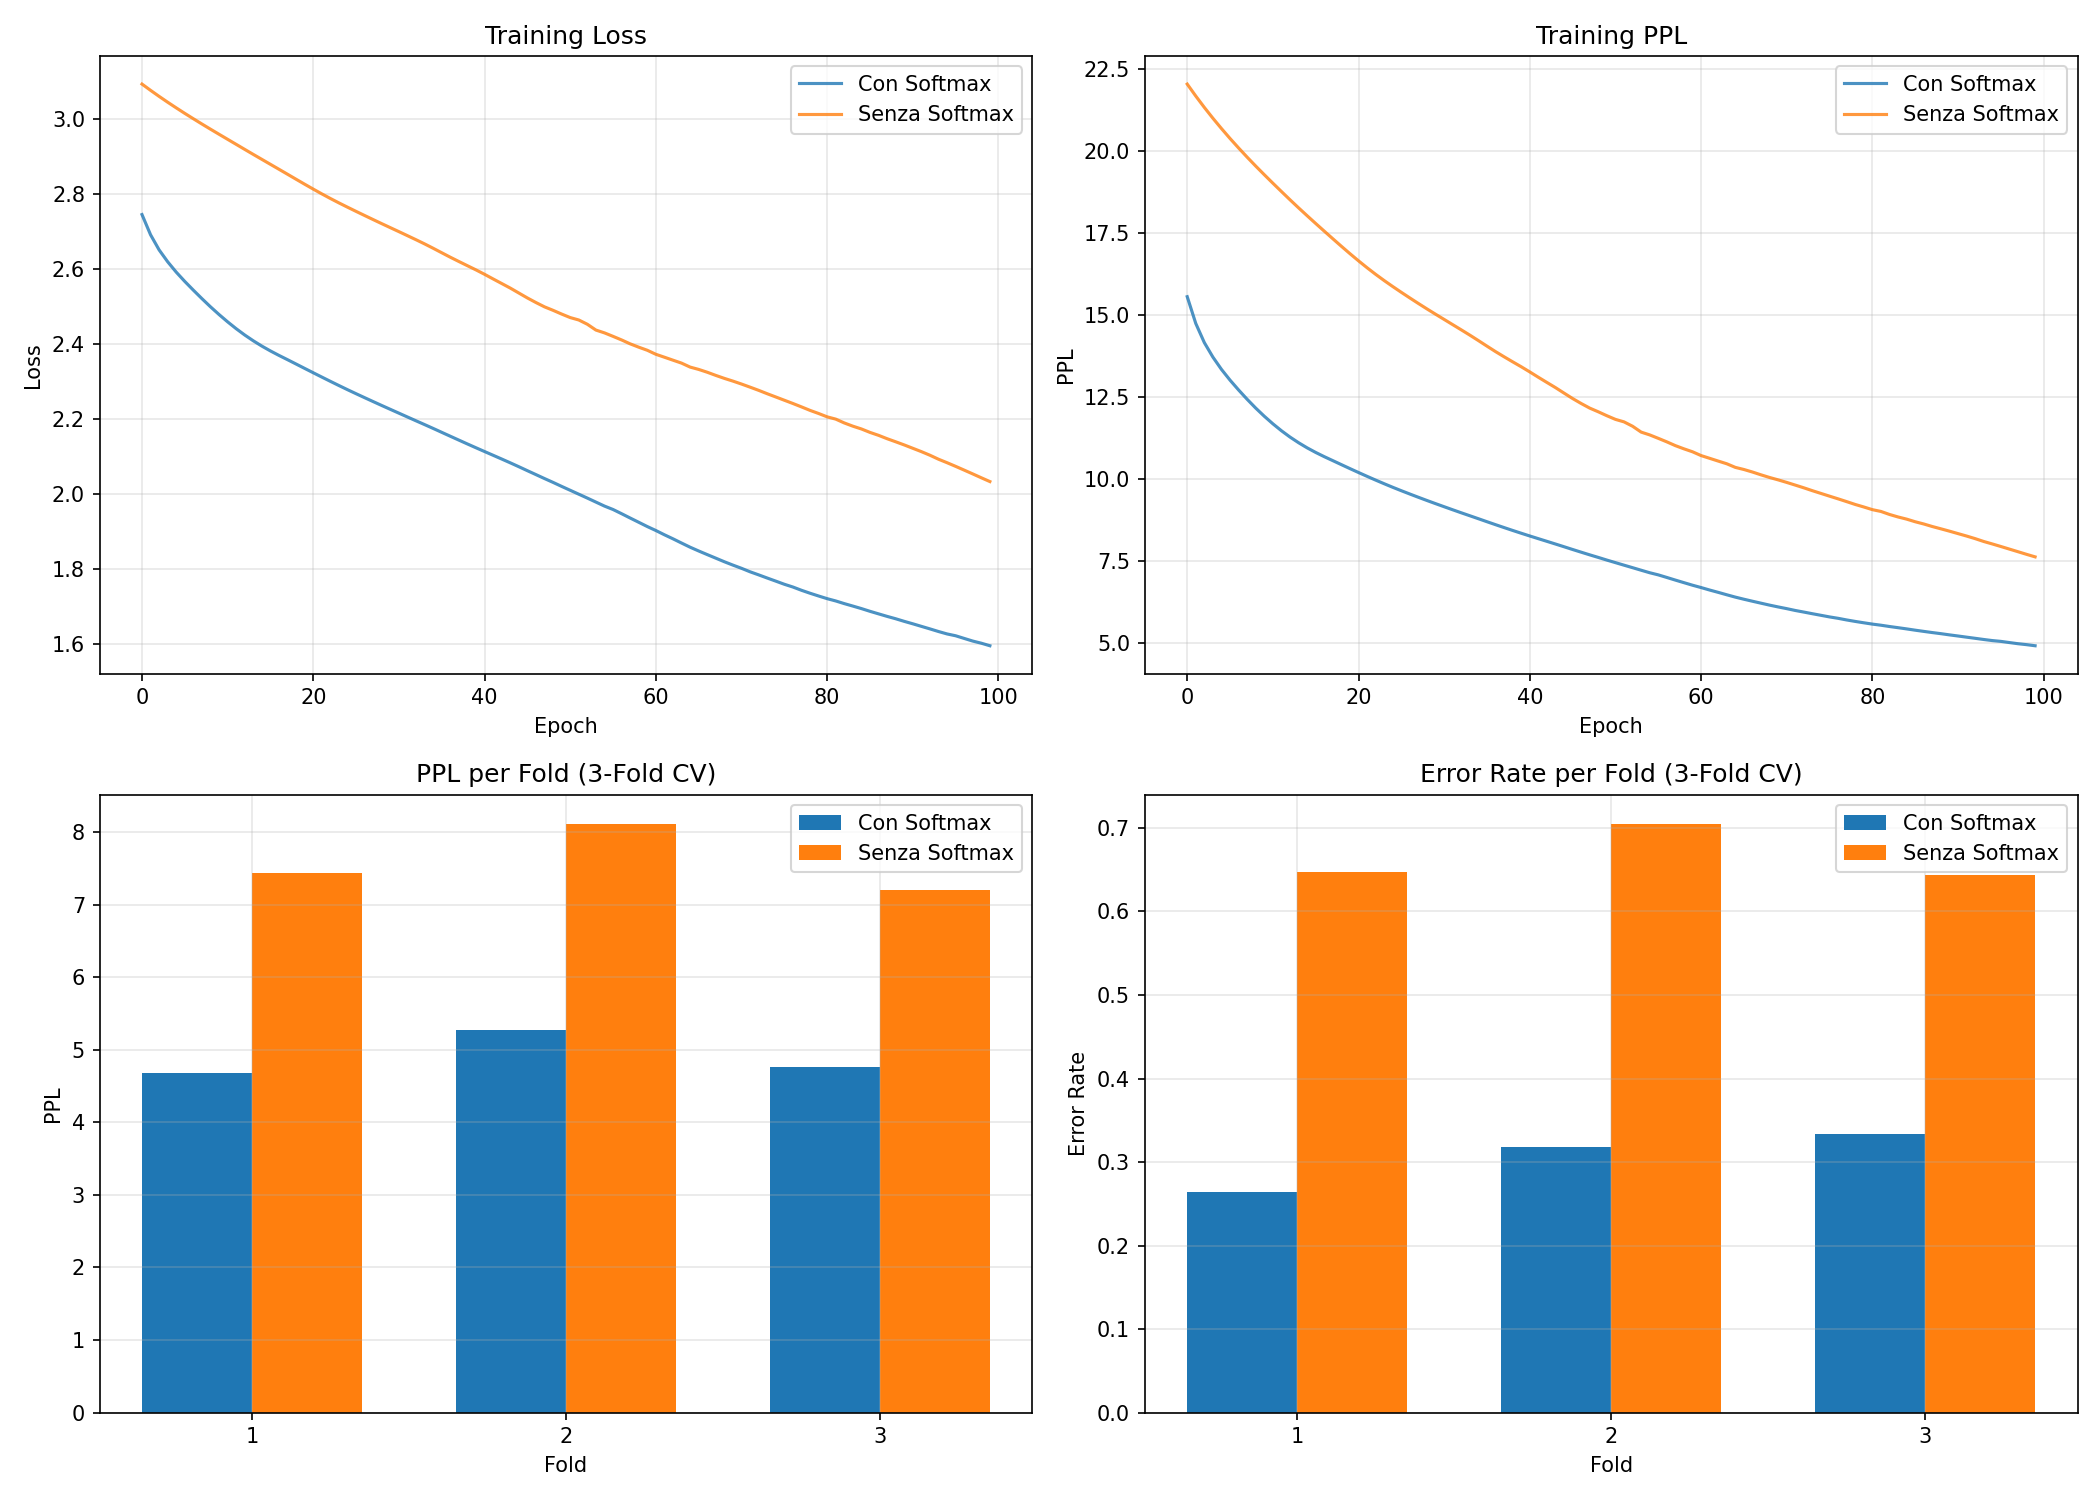
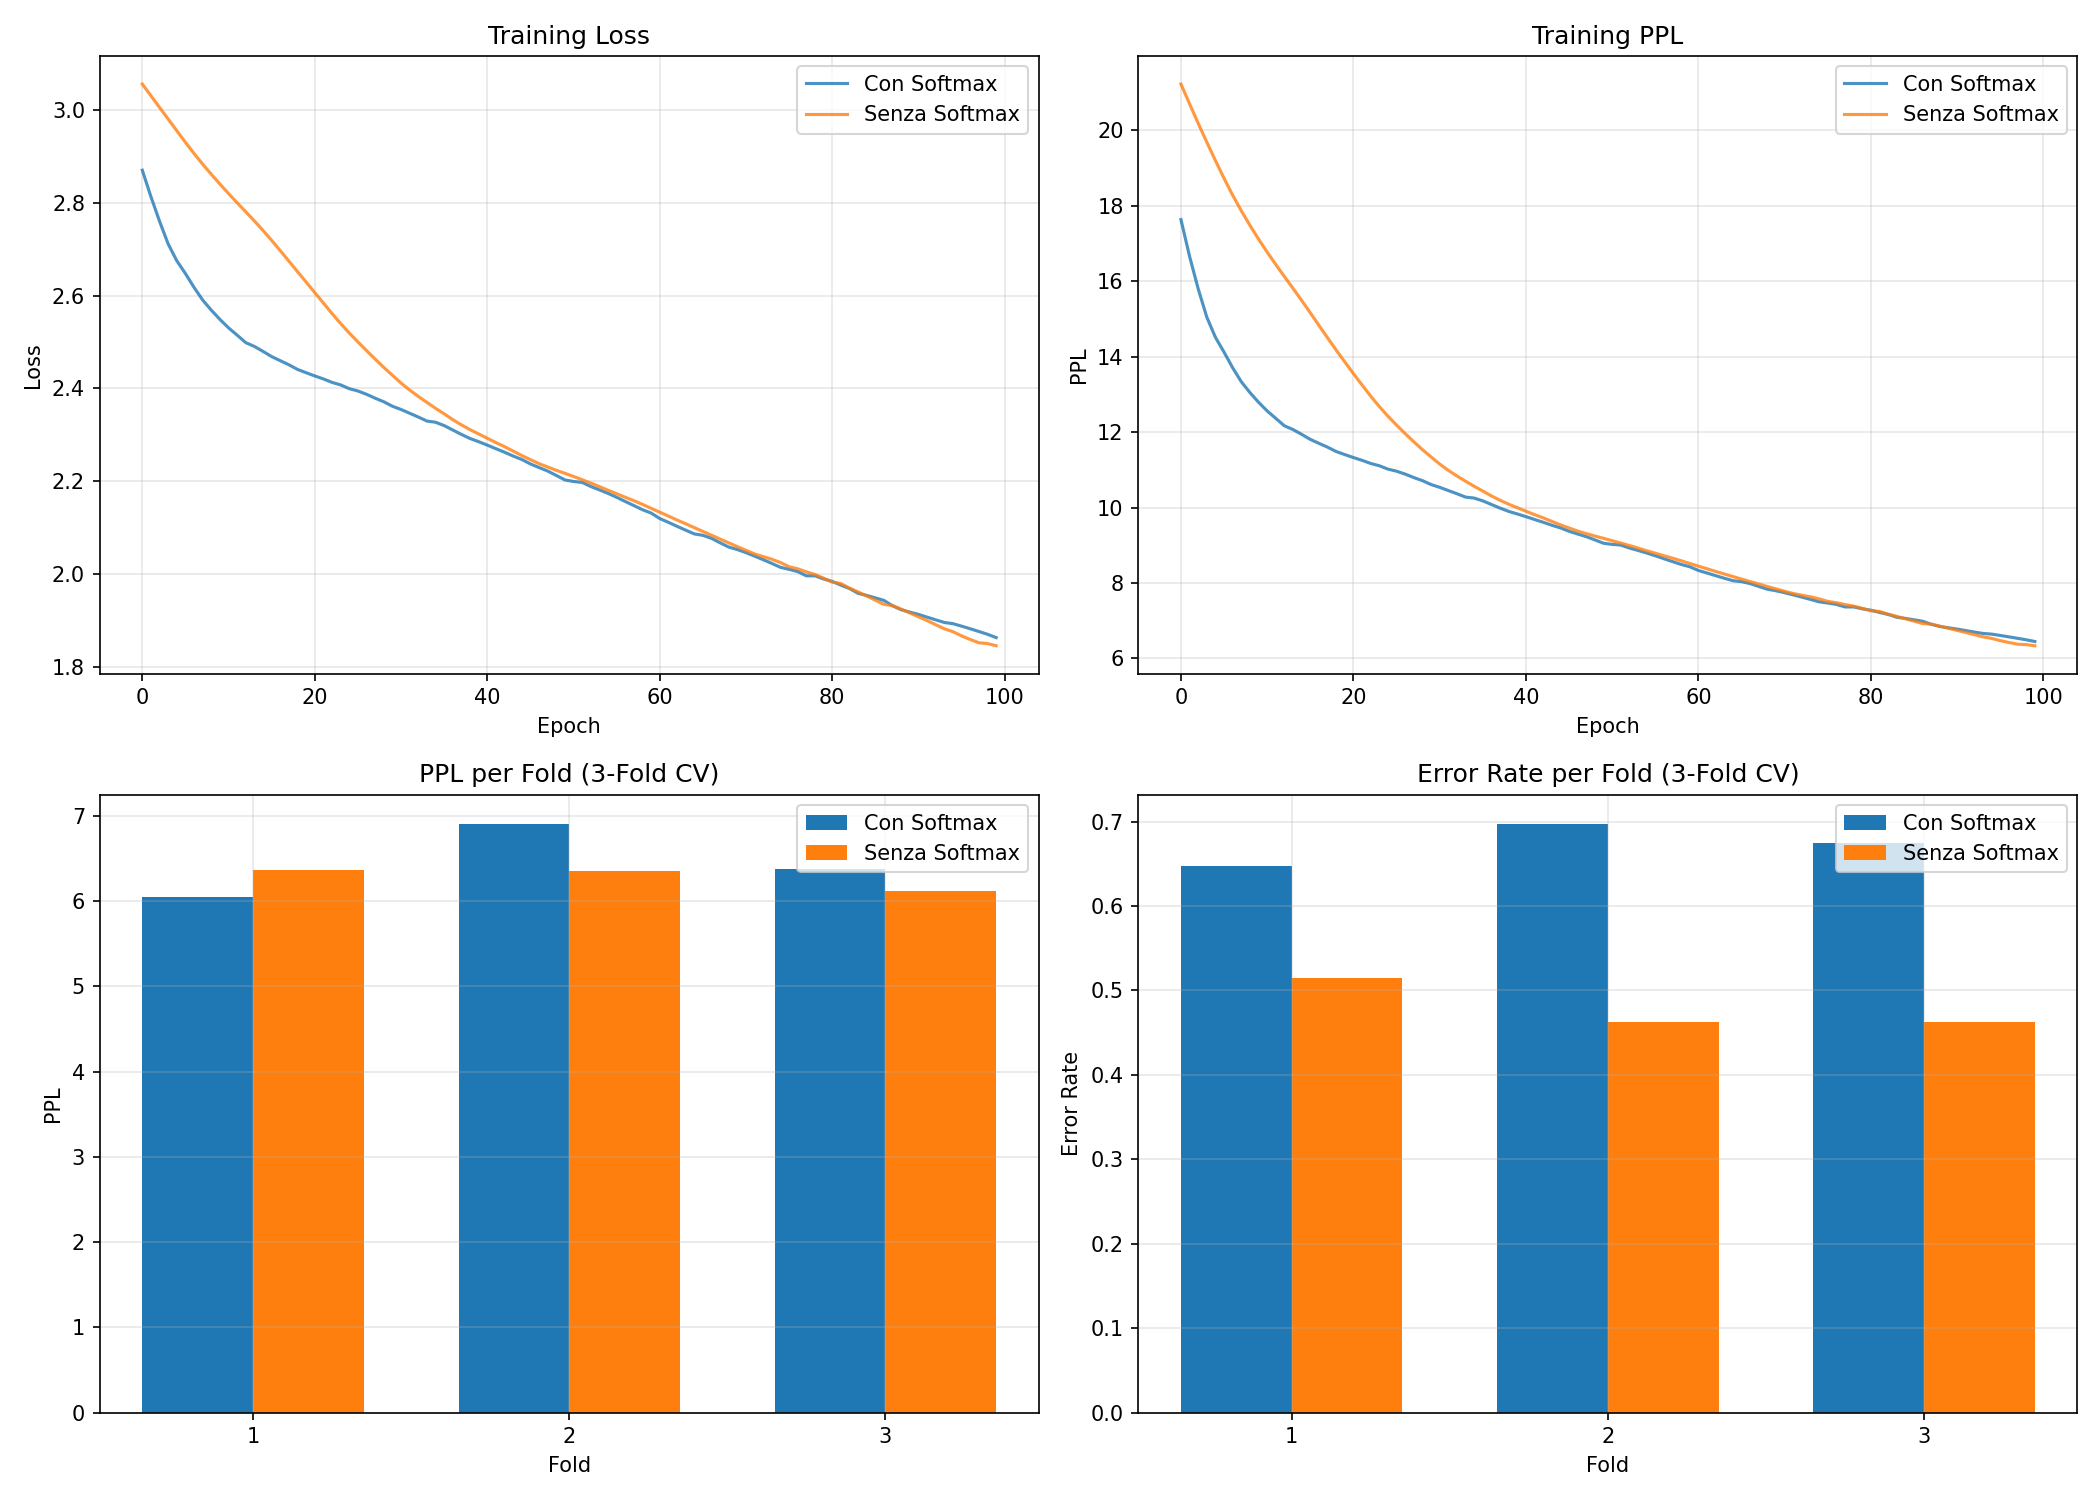
better CSAS

diff --git a/CSAS.py b/CSAS.py
@@ -105,6 +105,54 @@ x_val_final, y_val_final = to_tensor(test_subset)
 print(f"Training Set shape: {x_data.shape}")
 print(f"Test Set shape: {x_val_final.shape}")
 # --- 3. FUNZIONI QUANTUM (RÉNYI) ---
+def calculate_geometric_overlap(logits: torch.Tensor, targets: torch.Tensor):
+    """
+    Calcola Loss e PPL usando l'overlap geometrico (Cosine Similarity) tra gli embedding
+    predetti e quelli target.
+    
+    La loss è basata sulla fedeltà geometrica: vogliamo massimizzare l'overlap
+    tra il vettore di logits e la direzione del target (one-hot).
+    
+    Args:
+        logits: Tensor di shape (batch_size, seq_len, vocab_size) - output del modello
+        targets: Tensor di shape (batch_size, seq_len) - indici delle parole target
+    
+    Returns:
+        loss: Loss basata sull'overlap geometrico (da minimizzare)
+        ppl_geometric: Perplexity geometrica (analogo alla PPL classica)
+    """
+    batch_size, seq_len, vocab_size = logits.shape
+    
+    # Normalizzazione L2 dei logits (per cosine similarity)
+    logits_norm = F.normalize(logits, p=2, dim=-1)  # (batch, seq, vocab)
+    
+    # Creiamo one-hot dei target per il confronto
+    targets_onehot = F.one_hot(targets, num_classes=vocab_size).float()  # (batch, seq, vocab)
+    targets_norm = F.normalize(targets_onehot, p=2, dim=-1)
+    
+    # Cosine similarity tra logits normalizzati e target one-hot normalizzato
+    # Prodotto scalare lungo la dimensione vocab
+    cosine_sim = (logits_norm * targets_norm).sum(dim=-1)  # (batch, seq)
+    
+    # La cosine similarity va da -1 a 1, la trasformiamo in [0, 1]
+    # overlap = (1 + cos) / 2 rappresenta la "fedeltà" geometrica
+    overlap = (1 + cosine_sim) / 2  # (batch, seq)
+    
+    # Fedeltà media (analogo a f_bar in calculate_quantum_metrics)
+    f_bar = torch.mean(overlap, dim=1)  # (batch,)
+    
+    # PPL geometrica = 1 / f_bar^2 (più bassa = migliore allineamento)
+    ppl_geometric = torch.pow(f_bar + 1e-10, -2)
+    
+    # Loss = log(PPL) = -2 * log(f_bar)
+    loss_geometric = torch.log(ppl_geometric + 1e-10).mean()
+    
+    # PPL media per il log
+    ppl_value = torch.exp(loss_geometric).item()
+    
+    return loss_geometric, ppl_value
+
+
 def calculate_quantum_metrics(logits: torch.Tensor, targets: torch.Tensor):
 
     """
@@ -636,13 +684,13 @@ optimizer = optim.Adam(model.parameters(), lr=LEARNING_RATE)
 loss_history = []
 ppl_history = []
 
-print(f"Inizio training Quantum su {len(x_data)} frasi...")
+print(f"Inizio training Geometric Overlap su {len(x_data)} frasi...")
 for epoch in range(EPOCHS):
     model.train()
     optimizer.zero_grad()
 
     logits = model(x_data)
-    loss, ppl_val = calculate_quantum_metrics(logits, y_data)
+    loss, ppl_val = calculate_geometric_overlap(logits, y_data)
 
     loss.backward()
     optimizer.step()
@@ -662,8 +710,8 @@ with torch.no_grad():
         x_test, y_test = x_val_final[test_idx].to(device), y_val_final[test_idx].to(device)
         logits_fold = model(x_test)
 
-        # 1. Metrica PPL (Quantum Logic)
-        _, ppl_fold = calculate_quantum_metrics(logits_fold, y_test)
+        # 1. Metrica PPL (Geometric Overlap)
+        _, ppl_fold = calculate_geometric_overlap(logits_fold, y_test)
 
         # 2. Metrica ERRORE (Classica Hard-Argmax)
         # Chi ha il valore più alto?
@@ -704,13 +752,13 @@ optimizer = optim.Adam(model.parameters(), lr=LEARNING_RATE)
 loss_history = []
 ppl_history = []
 
-print(f"Inizio training Quantum su {len(x_data)} frasi... NO SMAX")
+print(f"Inizio training Geometric Overlap su {len(x_data)} frasi... NO SMAX")
 for epoch in range(EPOCHS):
     model.train()
     optimizer.zero_grad()
 
     logits = model(x_data)
-    loss, ppl_val = calculate_quantum_metrics(logits, y_data)
+    loss, ppl_val = calculate_geometric_overlap(logits, y_data)
 
     loss.backward()
     optimizer.step()
@@ -730,8 +778,8 @@ with torch.no_grad():
         x_test, y_test = x_val_final[test_idx].to(device), y_val_final[test_idx].to(device)
         logits_fold = model(x_test)
 
-        # 1. Metrica PPL (Quantum Logic)
-        _, ppl_fold = calculate_quantum_metrics(logits_fold, y_test)
+        # 1. Metrica PPL (Geometric Overlap)
+        _, ppl_fold = calculate_geometric_overlap(logits_fold, y_test)
 
         # 2. Metrica ERRORE (Classica Hard-Argmax)
         # Chi ha il valore più alto?
@@ -753,11 +801,11 @@ with torch.no_grad():
 # --- 7. PLOT (Solo Training) ---
 plt.figure(figsize=(12, 5))
 plt.subplot(1, 2, 1)
-plt.plot(loss_history, label='Quantum Loss')
-plt.title('Training Loss (Rényi)'); plt.legend()
+plt.plot(loss_history, label='Geometric Overlap Loss')
+plt.title('Training Loss (Geometric)'); plt.legend()
 
 plt.subplot(1, 2, 2)
-plt.plot(ppl_history, color='orange', label='Quantum PPL')
+plt.plot(ppl_history, color='orange', label='Geometric PPL')
 plt.title('Training Perplexity'); plt.legend()
 plt.show()
 
@@ -772,13 +820,13 @@ optimizer = optim.Adam(model.parameters(), lr=LEARNING_RATE)
 loss_history = []
 ppl_history = []
 
-print(f"Inizio training Quantum su {len(x_data)} frasi... NO SMAX")
+print(f"Inizio training Geometric Overlap su {len(x_data)} frasi... EMPTY MODEL")
 for epoch in range(EPOCHS):
     model.train()
     optimizer.zero_grad()
 
     logits = model(x_data)
-    loss, ppl_val = calculate_quantum_metrics(logits, y_data)
+    loss, ppl_val = calculate_geometric_overlap(logits, y_data)
 
     loss.backward()
     optimizer.step()
@@ -787,7 +835,7 @@ for epoch in range(EPOCHS):
     ppl_history.append(ppl_val)
 
     print(f"Epoch {epoch+1:03d} | Loss: {loss.item():.4f} | PPL : {ppl_val:.4f}")
-print("\n--- VALUTAZIONE 3-FOLD (PPL & ERRORE) NO SMAX ---")
+print("\n--- VALUTAZIONE 3-FOLD (PPL & ERRORE) EMPTY MODEL ---")
 kf = KFold(n_splits=3)
 fold_ppl_results = []
 fold_err_results = []
@@ -798,8 +846,8 @@ with torch.no_grad():
         x_test, y_test = x_val_final[test_idx].to(device), y_val_final[test_idx].to(device)
         logits_fold = model(x_test)
 
-        # 1. Metrica PPL (Quantum Logic)
-        _, ppl_fold = calculate_quantum_metrics(logits_fold, y_test)
+        # 1. Metrica PPL (Geometric Overlap)
+        _, ppl_fold = calculate_geometric_overlap(logits_fold, y_test)
 
         # 2. Metrica ERRORE (Classica Hard-Argmax)
         # Chi ha il valore più alto?
@@ -821,8 +869,8 @@ with torch.no_grad():
 # --- 7. PLOT (Solo Training) ---
 plt.figure(figsize=(12, 5))
 plt.subplot(1, 2, 1)
-plt.plot(loss_history, label='Quantum Loss')
-plt.title('Training Loss (Rényi)'); plt.legend()
+plt.plot(loss_history, label='Geometric Overlap Loss')
+plt.title('Training Loss (Geometric)'); plt.legend()
 
 plt.subplot(1, 2, 2)
 plt.plot(ppl_history, color='orange', label='Quantum PPL')
@@ -916,8 +964,8 @@ for epoch in range(EPOCHS):
 
     logits = model(x_data)
 
-    # 1. Quantum Loss (Rényi)
-    loss_q, ppl_val = calculate_quantum_metrics(logits, y_data)
+    # 1. Geometric Overlap Loss
+    loss_q, ppl_val = calculate_geometric_overlap(logits, y_data)
 
     # 2. Vincoli strutturali (da encoding.py)
     # Forza E^T E = I
@@ -961,7 +1009,7 @@ with torch.no_grad():
         x_test, y_test = x_val_final[test_idx].to(device), y_val_final[test_idx].to(device)
         logits_fold = model(x_test)
 
-        _, ppl_fold = calculate_quantum_metrics(logits_fold, y_test)
+        _, ppl_fold = calculate_geometric_overlap(logits_fold, y_test)
 
         pred_fold = torch.argmax(logits_fold, dim=-1)
         correct = (pred_fold == y_test).float().sum()
